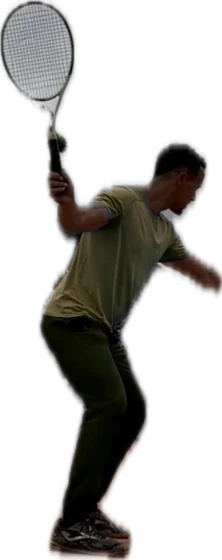
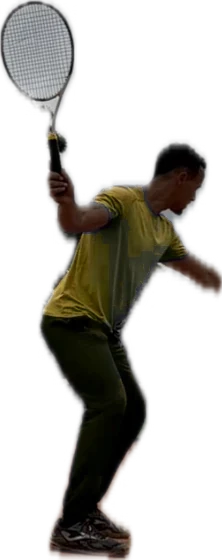
O saque agora e a JV inteira — de frente e de costas
Chegaram as duas metades da mesma pose: uma foto de frente e uma de
costas, as duas nitidas. Com o par, a figura do jogo 3D saiu do saque:
o desenho escolhe pelo lado da rede e quem aparece ali e a JV.

Antes so DUAS figuras pediam a pose de saque (S17 e T11) — todo o resto
do mes do saque mostrava um golpe de fundo. Agora ela esta nos 18
desenhos em que alguem saca de verdade, conferidos um a um: D15, S01 a
S05, S09, S10, S12 a S15, S17 do lado de ca; S06, S07, S08, S11 e S16 do
outro lado, onde quem saca e o professor. Quem DEVOLVE continua com a
figura de fundo, que e o que ele esta fazendo.

jog-saque.webp foi apagado.

CAMISA DO ALUNO
Girar o matiz preservando o brilho de uma camisa azul-escura devolve um
dourado escuro, que em quadra le como verde-oliva — e a legenda diz que
aluno e dourado. O ferramentas/camisa-dourada.py entra depois do giro e
levanta saturacao e brilho so dos pixels que ja estao na faixa do
dourado: pele, cabelo, calca e tenis nao sao tocados.

O QUE NAO ENTROU, E POR QUE
Das nove fotos, cinco ficaram de fora. Quatro por tamanho (143x198,
66x270, 180x339, 150x210): no desenho a figura tem de 60 a 140 px de
altura e na folha A4 chega a 250, e abaixo de uns 400 px de origem o
borrao aparece. A quinta (costas, raquete atras da cabeca, 150x409) foi
testada em BH1 e revertida: no tamanho do desenho o corpo dobrado
esconde a raquete e a figura vira um vulto.

Falta uma coisa so para trocar TUDO pelas fotos da JV: de costas com a
[…]

diff --git a/app-exercicios/exercicios.js b/app-exercicios/exercicios.js
@@ -2184,7 +2184,7 @@ const EX = [
   nec:['saque1','saque2','coordenacao'],
   kids:`Um bambolê no chão: a bola tem que cair dentro, valendo ponto por acerto.` ,
   fig:{base:'fundo', el:[
-    ['aluno',-1.4,11.9,'na base'],
+    ['aluno',-1.4,11.9,'na base','saque'],
     ['zona',-1.0,10.2,1.6,1.6,'raquete no chão'],
     ['bola',-1.4,11.4, -1.0,10.2, .1, 'o toss cai aqui']
   ], nota:`Dez lançamentos SEM sacar: a bola tem que cair na raquete deitada à frente do pé da frente.`},
@@ -2207,7 +2207,7 @@ const EX = [
   mat:['adaptada','cesta'], form:['particular','dupla','trio','kids'],
   nec:['saque1','coordenacao','potencia'] ,
   fig:{base:'fundo', el:[
-    ['aluno',-1.6,12.0,''],
+    ['aluno',-1.6,12.0,'','saque'],
     ['marca',-1.6,10.8,'1. pés e carga'],
     ['marca',-1.2,9.8,'2. lançamento'],
     ['marca',-0.8,8.8,'3. raquete atrás'],
@@ -2233,7 +2233,7 @@ const EX = [
   mat:['alvos','cesta','contador'], form:['particular','dupla','trio'],
   nec:['saque1','direcao','tatica'] ,
   fig:{base:'inteira', el:[
-    ['aluno',-1.6,12.0,''],
+    ['aluno',-1.6,12.0,'','saque'],
     ['zona',-3.4,-4.6,1.8,2.6,'aberto'],
     ['zona',-0.9,-4.6,1.8,2.6,'no corpo'],
     ['bola',-1.5,11.4, -3.4,-4.6, .12, ''],
@@ -2259,7 +2259,7 @@ const EX = [
   mat:['corda','elastico','alvos','cesta'], form:['particular','dupla','trio'],
   nec:['saque2','efeito','mental'] ,
   fig:{base:'inteira', el:[
-    ['aluno',-1.6,12.0,''],
+    ['aluno',-1.6,12.0,'','saque'],
     ['corda','corda a 1 m'],
     ['zona',-2.0,-4.4,2.6,2.6,'no corpo dele'],
     ['bola',-1.5,11.4, -2.0,-4.4, .24, 'sobe e cai']
@@ -2284,7 +2284,7 @@ const EX = [
   mat:['contador'], form:['particular','dupla'],
   nec:['saque2','mental','saque1'] ,
   fig:{base:'inteira', el:[
-    ['aluno',-1.6,12.0,''],
+    ['aluno',-1.6,12.0,'','saque'],
     ['prof',1.6,-12.0,'devolve'],
     ['bola',-1.5,11.4, 2.0,-4.8, .14, ''],
     ['texto',0,3.2,'dupla falta vale 2 pontos',.62]
@@ -2308,7 +2308,7 @@ const EX = [
   mat:['alvos','cesta'], form:['particular','dupla'],
   nec:['saque1','tatica','potencia'] ,
   fig:{base:'inteira', el:[
-    ['aluno',-1.6,12.0,''],
+    ['aluno',-1.6,12.0,'','saque'],
     ['bola',-1.5,11.4, -3.2,-4.6, .12, '1. saque aberto'],
     ['prof',-3.4,-8.0,''],
     ['bola',-3.4,-7.6, 0.6,8.4, -.12, '2. devolução'],
@@ -2335,7 +2335,7 @@ const EX = [
   mat:['cones','cesta'], form:['particular','dupla'],
   nec:['devolucao','posicionamento','leitura'] ,
   fig:{base:'inteira', el:[
-    ['prof',1.6,-11.6,'saca'],
+    ['prof',1.6,-11.6,'saca','saque'],
     ['cone',3.0,5.6,'saque fraco'],
     ['cone',3.4,11.9,'neutro'],
     ['cone',3.8,13.0,'saque forte'],
@@ -2363,7 +2363,7 @@ const EX = [
   mat:['alvos','cesta'], form:['particular','dupla','trio'],
   nec:['devolucao','profundidade','consistencia'] ,
   fig:{base:'inteira', el:[
-    ['prof',1.6,-12.0,''],
+    ['prof',1.6,-12.0,'','saque'],
     ['bola',1.6,-11.6, -2.0,5.0, .12, ''],
     ['aluno',-2.4,11.4,''],
     ['zona',0,-9.4,3.6,3.4,'meio profundo'],
@@ -2389,7 +2389,7 @@ const EX = [
   mat:['cesta','alvos'], form:['particular','dupla'],
   nec:['devolucao','consistencia','leitura'] ,
   fig:{base:'inteira', el:[
-    ['prof',1.6,-11.6,'saque forte'],
+    ['prof',1.6,-11.6,'saque forte','saque'],
     ['bola',1.6,-11.6, -2.2,5.2, .12, ''],
     ['aluno',-2.6,11.2,''],
     ['marca',-2.4,9.8,'preparação curta'],
@@ -2415,7 +2415,7 @@ const EX = [
   mat:['cronometro'], form:['particular','dupla','trio'],
   nec:['mental','saque1','saque2'] ,
   fig:{base:'fundo', el:[
-    ['aluno',-1.6,12.0,''],
+    ['aluno',-1.6,12.0,'','saque'],
     ['marca',-2.6,11.0,'1. quica 3 vezes'],
     ['marca',-2.2,9.6,'2. escolhe o alvo'],
     ['marca',-1.8,8.2,'3. respira e saca']
@@ -2440,7 +2440,7 @@ const EX = [
   mat:['celular','contador'], form:['particular','dupla'],
   nec:['saque1','saque2','mental','tatica'] ,
   fig:{base:'inteira', el:[
-    ['aluno',-1.6,12.0,''],
+    ['aluno',-1.6,12.0,'','saque'],
     ['prof',1.4,-12.0,''],
     ['bola',-1.5,11.4, 2.2,-5.0, .14, ''],
     ['texto',0,3.2,'4 games · 4 números anotados',.6]
@@ -2464,7 +2464,7 @@ const EX = [
   mat:['alvos','contador'], form:['particular','dupla'],
   nec:['devolucao','tatica','mental'] ,
   fig:{base:'inteira', el:[
-    ['prof',1.6,-12.0,''],
+    ['prof',1.6,-12.0,'','saque'],
     ['bola',1.6,-11.6, -2.0,5.0, .12, ''],
     ['aluno',-2.4,11.4,''],
     ['zona',0,-9.2,3.0,3.0,'meio profundo'],
@@ -2489,7 +2489,7 @@ const EX = [
   mat:['nada'], form:['particular','dupla'],
   nec:['mental','saque1','saque2','tatica'] ,
   fig:{base:'inteira', el:[
-    ['aluno',-1.6,12.0,''],
+    ['aluno',-1.6,12.0,'','saque'],
     ['prof',1.4,-12.0,''],
     ['bola',-1.5,11.4, -2.6,-4.8, .2, 'margem, não risco'],
     ['texto',0,3.2,'game começa em 30-40',.62]
@@ -2513,7 +2513,7 @@ const EX = [
   mat:['cesta','cronometro','alvos'], form:['particular','dupla','personal'],
   nec:['fisico','saque1','mental'] ,
   fig:{base:'inteira', el:[
-    ['aluno',-1.6,12.0,''],
+    ['aluno',-1.6,12.0,'','saque'],
     ['zona',-2.4,-4.6,2.6,2.6,'alvo'],
     ['bola',-1.5,11.4, -2.4,-4.6, .14, ''],
     ['texto',0,3.2,'30 s de esforço + 5 saques',.6]
@@ -2539,7 +2539,7 @@ const EX = [
   mat:['nada'], form:['particular','dupla','trio'],
   nec:['saque1','saque2','mental'] ,
   fig:{base:'fundo', el:[
-    ['aluno',-1.6,12.0,'3 saques lentos'],
+    ['aluno',-1.6,12.0,'3 saques lentos','saque'],
     ['texto',0,8.0,'tarefa de casa: lançamentos',.6]
   ], nota:`Fechamento do mês do saque: o número do dia e a tarefa de casa, dita em voz alta.`},
   passos:[`O aluno diz o percentual de primeiro saque do dia.`, `Define a tarefa de casa: quantos lançamentos (D15) vai fazer até a próxima aula.`, `Fecha com 3 saques lentos, sem bola, sentindo a carga da perna.`, `No Ascensão, a meta é numérica e escolhida por ele.`, `Confira a tarefa na aula seguinte — senão ela morre na primeira semana.`],
@@ -3090,7 +3090,7 @@ const EX = [
   nec:['saque1','coordenacao','fisico'],
   kids:`Concurso de arremesso: quem joga a bola mais longe (e depois quem acerta o alvo).` ,
   fig:{base:'fundo', el:[
-    ['aluno',-2.0,11.0,''],
+    ['aluno',-2.0,11.0,'','saque'],
     ['bola',-1.8,10.6, 3.0,5.0, .18, 'arremessa longe'],
     ['texto',0,13.2,'8 arremessos por lado',.6]
   ], nota:`Arremessar a bola longe, como uma pedra: é o mesmo movimento do saque, sem a raquete.`},
@@ -3114,7 +3114,7 @@ const EX = [
   nec:['devolucao','leitura','footwork'],
   kids:`"Pega o saque": conta quantas pegou sem deixar cair.` ,
   fig:{base:'inteira', el:[
-    ['prof',1.6,-11.2,'saca devagar'],
+    ['prof',1.6,-11.2,'saca devagar','saque'],
     ['bola',1.6,-11.2, -1.8,5.4, .14, ''],
     ['aluno',-2.2,11.2,'sem raquete'],
     ['mov',-2.2,11.0, -1.9,5.8, .08, 'split e persegue'],

diff --git a/app-exercicios/quadra.js b/app-exercicios/quadra.js
@@ -136,7 +136,12 @@ const RECORTES = {
      `altura` é a altura real do TOPO DA IMAGEM acima do chão — na pose de
      espera a cabeça baixa (1,70 m) e com a raquete no alto passa de dois
      metros. Errar isso faz a pessoa flutuar ou afundar no saibro. */
-  saque:   { arq:'jog-saque.webp', altura:1.82, pe:1.0, prop:0.47, olha:'esq' },
+  saque:   { altura:2.18, pe:1.0, prop:0.402, olha:'dir',
+             papel:{ aluno:'jv-saque-frente-aluno.webp', prof:'jv-saque-frente-prof.webp',
+                     colega:'jv-saque-frente-colega.webp' },
+             costas:{ altura:2.10, pe:1.0, prop:0.320, olha:'dir',
+                      papel:{ aluno:'jv-saque-costas-aluno.webp', prof:'jv-saque-costas-prof.webp',
+                              colega:'jv-saque-costas-colega.webp' } } },
   espera:  { costasSo:true, altura:1.70, pe:1.0, prop:0.641, olha:'dir',
              papel:{ aluno:'jv-espera-aluno.webp', prof:'jv-espera-prof.webp',
                      colega:'jv-espera-colega.webp' } },

diff --git a/app-exercicios/sw-exercicios.js b/app-exercicios/sw-exercicios.js
@@ -4,7 +4,7 @@
    não carrega biblioteca de fora e não tem dado de aluno na nuvem. Os favoritos
    e o plano de aula ficam no próprio aparelho (localStorage).
    Por que importa: quadra de saibro com sinal ruim é a regra, não a exceção. */
-const CACHE = 'jv-exercicios-v14';   /* sobe a cada mudanca de tela: o v2 e' apagado no activate */
+const CACHE = 'jv-exercicios-v15';   /* sobe a cada mudanca de tela: o v2 e' apagado no activate */
 const SHELL = ['./', './exercicios.js', './quadra.js', './manifest-exercicios.webmanifest',
                './jv-icone-exercicios-192.png'];
 

diff --git a/ferramentas/camisa-dourada.py b/ferramentas/camisa-dourada.py
@@ -1,0 +1,47 @@
+#!/usr/bin/env python3
+"""Puxa a camisa do ALUNO para o dourado da legenda.
+
+   O `pintar-camisa.py` gira o matiz preservando o brilho — e preservar o
+   brilho de uma camisa azul-escura devolve um dourado escuro, que na quadra
+   le como verde-oliva. A legenda diz que aluno e' dourado; se a camisa nao
+   for dourada, a legenda mente. Este passo entra DEPOIS do giro de matiz e
+   so' nos pixels que ja' estao na faixa do dourado: levanta a saturacao e o
+   brilho deles, sem tocar em pele, cabelo, calca ou tenis.
+
+   Uso:  python3 ferramentas/camisa-dourada.py entrada.png saida.png
+"""
+import sys
+import colorsys
+import numpy as np
+from PIL import Image
+
+MIN_H, MAX_H = 34.0, 62.0      # faixa de matiz do dourado, em graus
+GANHO_S, GANHO_V = 1.75, 1.30  # quanto levantar saturacao e brilho
+
+
+def dourar(entrada, saida):
+    im = Image.open(entrada).convert('RGBA')
+    a = np.array(im).astype(float) / 255.0
+    rgb, al = a[:, :, :3], a[:, :, 3]
+    mudou = 0
+    h, w = al.shape
+    for y in range(h):
+        for x in range(w):
+            if al[y, x] < 0.2:
+                continue
+            r, g, b = rgb[y, x]
+            hh, ss, vv = colorsys.rgb_to_hsv(r, g, b)
+            if ss < 0.12 or not (MIN_H <= hh * 360 <= MAX_H):
+                continue
+            ss = min(1.0, ss * GANHO_S)
+            vv = min(1.0, vv * GANHO_V)
+            rgb[y, x] = colorsys.hsv_to_rgb(hh, ss, vv)
+            mudou += 1
+    Image.fromarray((np.clip(a, 0, 1) * 255).astype(np.uint8), 'RGBA').save(saida)
+    print('%s -> %s  (%d pixels dourados)' % (entrada, saida, mudou))
+
+
+if __name__ == '__main__':
+    if len(sys.argv) != 3:
+        raise SystemExit('uso: camisa-dourada.py entrada.png saida.png')
+    dourar(sys.argv[1], sys.argv[2])

diff --git a/app-exercicios/LEIA-ME.md b/app-exercicios/LEIA-ME.md
@@ -290,15 +290,22 @@ recorte do saque continua só de frente**, de propósito: a cabeça está inclin
 para trás olhando o lançamento, não há faixa de cabelo para espelhar, e no
 tamanho do desenho quem conta a história ali é o braço levantado, não o rosto.
 
-### As duas poses que já são da JV
+### As poses que já são da JV
 
-Duas fotos de verdade, da JV, entraram como **poses com nome** — o quinto
-campo do elemento: `['aluno', x, y, 'rótulo', 'espera']`.
+Fotos de verdade, da JV, entraram como **poses com nome** — o quinto campo do
+elemento: `['aluno', x, y, 'rótulo', 'espera']`.
 
 | pose | o que é | onde está usada |
 |---|---|---|
 | `espera` | posição de espera, de costas, pés abertos | **D1** Estátua pronta · **D2** Split à batida · **T08** Semáforo |
 | `prepara` | raquete já no alto, de costas | **M01** Preparação na chegada |
+| `saque` | **de frente E de costas** — a única pose completa | os 18 desenhos em que alguém saca de verdade: D15, S01–S17 |
+
+**O saque é a primeira pose 100% da JV.** Chegaram as duas metades — uma foto
+de frente e uma de costas — então o desenho escolhe pelo lado da rede e a
+figura do jogo 3D saiu de cena ali. Antes, só duas figuras pediam a pose de
+saque; agora ela está em todas as que sacam mesmo, conferidas uma a uma: quem
+devolve continua com a figura de golpe de fundo.
 
 Elas **não** viraram a figura padrão, e a razão é honesta: a foto de espera
 não tem raquete na mão. Colocada nos 132 desenhos, todo mundo virava gente de
@@ -313,11 +320,31 @@ e a legenda passaria a mentir. E `costasSo:true` diz que a pose só vale para
 quem está do lado de cá: pedida para alguém além da rede, o desenho volta
 sozinho para a foto de frente do papel.
 
-**O que falta para trocar TODAS as figuras pelas da JV:** fotos de costas
-**com a raquete na mão**, batendo — forehand, backhand, voleio e saque — e as
-mesmas poses de frente, para quem está além da rede. Duas das quatro fotos
-enviadas não deu para usar: estão em baixa resolução e com o movimento
-borrado (180×339 e 150×210 px), e no tamanho da folha A4 apareceria.
+A camisa do aluno passa por mais um passo depois do giro de matiz, o
+`ferramentas/camisa-dourada.py`: girar o matiz preservando o brilho de uma
+camisa azul-escura devolve um dourado escuro, que em quadra lê como
+verde-oliva — e a legenda diz que aluno é dourado. O passo levanta saturação e
+brilho só dos pixels que já estão na faixa do dourado, sem tocar em pele,
+cabelo, calça ou tênis.
+
+**O que falta para trocar TODAS as figuras pelas da JV:** de costas **com a
+raquete na mão, batendo** — forehand, backhand e voleio — e as mesmas de
+frente, para quem está além da rede. É a única lacuna que sobrou.
+
+**O que não deu para usar, das nove fotos enviadas, e por quê:**
+
+| foto | tamanho | motivo |
+|---|---|---|
+| espera sem raquete | 326×508 | usada, mas só nos 3 exercícios de espera: sem raquete na mão, não serve de figura padrão |
+| costas bem curvado | 180×339 | baixa resolução e movimento borrado |
+| costas agachado | 150×210 | baixa resolução e movimento borrado |
+| braços abertos | 143×198 | pequena demais |
+| braços para cima | 66×270 | estreita e pequena demais |
+| costas, raquete atrás da cabeça | 150×409 | testada em BH1 e revertida: no tamanho do desenho o corpo dobrado esconde a raquete, e a figura vira um vulto |
+
+O corte da decisão é este: no desenho a figura tem de 60 a 140 px de altura e
+na folha A4 chega a 250. Abaixo de uns 400 px de altura de origem, o borrão
+aparece; e pose em que a raquete some é pose que não conta a história.
 
 O único número que não dá para deduzir é `olha`, em `RECORTES`: para que lado a
 pessoa bate **na foto**. Espelhar uma foto troca a mão dela — um destro vira
@@ -348,9 +375,11 @@ metros.
 
 ### Os jogadores que estão ali agora são PROVISÓRIOS
 
-`jog-aluno.webp`, `jog-prof.webp`, `jog-colega.webp` e `jog-saque.webp` vieram
-de imagens encontradas na internet e entraram a pedido, para ver o resultado
-funcionando.
+`jog-aluno.webp`, `jog-prof.webp` e `jog-colega.webp` vieram de imagens
+encontradas na internet e entraram a pedido, para ver o resultado funcionando.
+**A figura do saque já não é mais uma delas:** o `jog-saque.webp` saiu, e no
+lugar entraram fotos da JV, de frente e de costas (ver *As poses que já são da
+JV*).
 
 Os três papéis são a **mesma figura 3D com a camisa repintada**
 (`ferramentas/pintar-camisa.py`), nas cores que o desenho já usava para dizer
